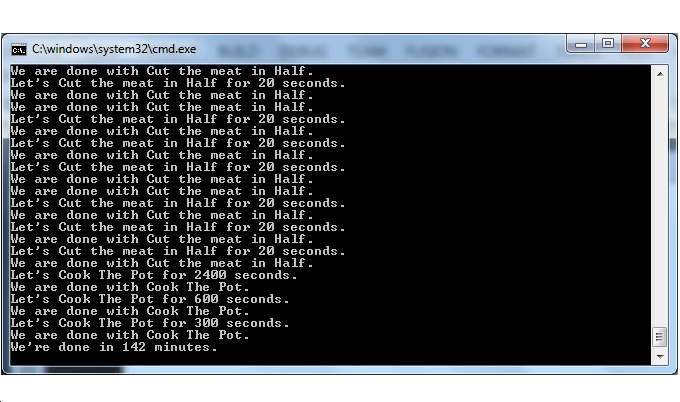
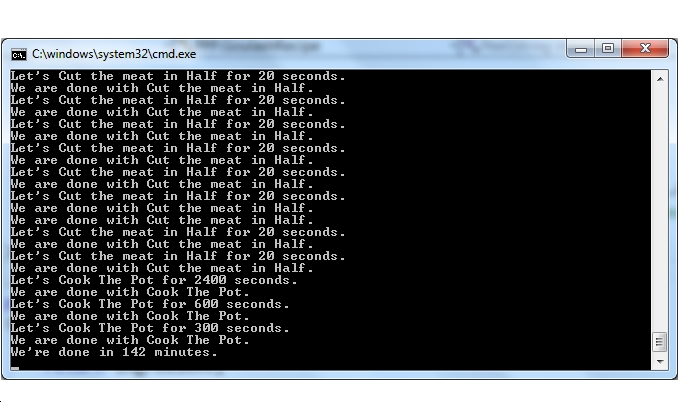
Pipelining added

Changed region(s): [[0.0, 0.0597, 1.0, 0.9552], [0.9574, 0.2985, 1.0, 0.5373], [0.9882, 0.2388, 1.0, 0.2687]]

diff --git a/PPP/GoulashRecipe.cs b/PPP/GoulashRecipe.cs
@@ -92,7 +92,10 @@
             // Then parallelize it.
             Parallel.For(0, ingredients.Length, i =>
             {
-                Utils.DoWork(string.Format("Peel And Dice {0} {1}", ingredientName, i), 120);
+                Task.Factory.StartNew(
+                    () => Peel(ingredientName)).ContinueWith(
+                    peeled => Dice(peeled.Result), TaskContinuationOptions.AttachedToParent);
+                //Utils.DoWork(string.Format("Peel And Dice {0} {1}", ingredientName, i), 120);
             });
         }
 
